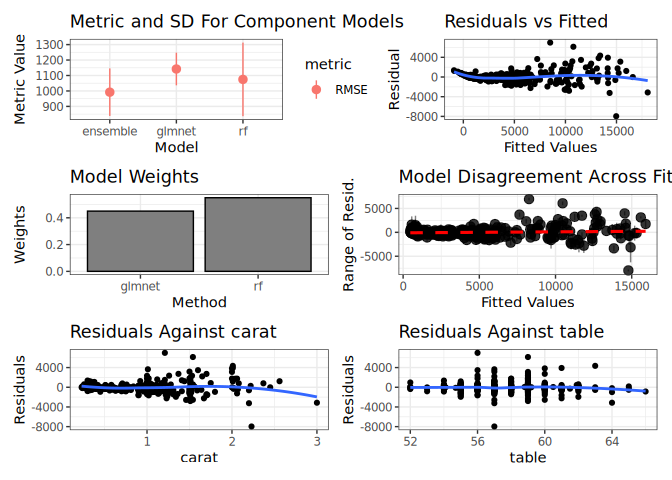
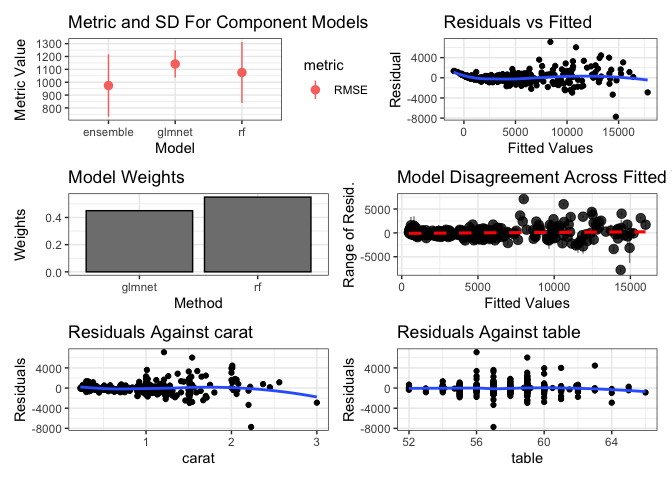
Run full prep checklist in make release + refresh README
make release now runs check + url-check (new target) + readme before opening the checklist issue, so every prep box is actually executed. Refreshed README.md via build_readme; example-output numbers jitter slightly run-to-run, committing the honest refresh.

diff --git a/README.md b/README.md
@@ -49,7 +49,7 @@ print(summary(models))
 #> Model accuracy:
 #>    model_name metric    value       sd
 #>        <char> <char>    <num>    <num>
-#> 1:         rf   RMSE 1074.682 238.2442
+#> 1:         rf   RMSE 1075.619 237.4499
 #> 2:     glmnet   RMSE 1142.082 105.6022
 ```
 
@@ -69,13 +69,13 @@ print(greedy_stack)
 #> Resampling results:
 #> 
 #>   RMSE      Rsquared   MAE     
-#>   992.0694  0.9354531  559.5561
+#>   974.1608  0.9353576  558.3467
 #> 
 #> Tuning parameter 'max_iter' was held constant at a value of 100
 #> 
 #> Final model:
 #> Greedy MSE
-#> RMSE:  997.4437 
+#> RMSE:  995.7783 
 #> Weights:
 #>        [,1]
 #> rf     0.55
@@ -99,7 +99,7 @@ print(rf_stack)
 #> Resampling results:
 #> 
 #>   RMSE      Rsquared   MAE     
-#>   979.1918  0.9379759  513.1197
+#>   936.8824  0.9436947  486.9744
 #> 
 #> Tuning parameter 'mtry' was held constant at a value of 2
 #> 
@@ -111,7 +111,7 @@ print(rf_stack)
 #>                      Number of trees: 500
 #> No. of variables tried at each split: 2
 #> 
-#>           Mean of squared residuals: 887692.1
+#>           Mean of squared residuals: 887795.7
 #>                     % Var explained: 94.2
 ```
 

diff --git a/RELEASE.md b/RELEASE.md
@@ -6,11 +6,13 @@ shouldn't be automated.
 
 ## 1. Prepare — `make release`
 
-Runs every check, then opens a GitHub *"Release caretEnsemble x.y.z"* checklist issue.
+Runs the full prep checklist, then opens a GitHub *"Release caretEnsemble x.y.z"* checklist issue:
 
-- **Blocks** (real pass/fail): `revdepcheck`, `check-many-preds`.
-- **Fire-and-forget** (dispatched, not gated): `rhub` (a GitHub Actions run) and
-  `check-win` (3 win-builder emails). Confirm their results before submitting.
+- `check` — local `R CMD check --as-cran` (remote + manual).
+- `url-check` — `urlchecker::url_check()` (advisory: surfaces broken/redirecting URLs; does not hard-fail).
+- `readme` — `devtools::build_readme()` (regenerates `README.md`; commit the refresh).
+- `check-many-preds`, `check-rev-dep` — **block** on real pass/fail.
+- `check-rhub`, `check-win` — **fire-and-forget** (dispatched, not gated); confirm their results (Actions / 3 win-builder emails) before submitting.
 
 ## 2. Review & approve — *manual*
 